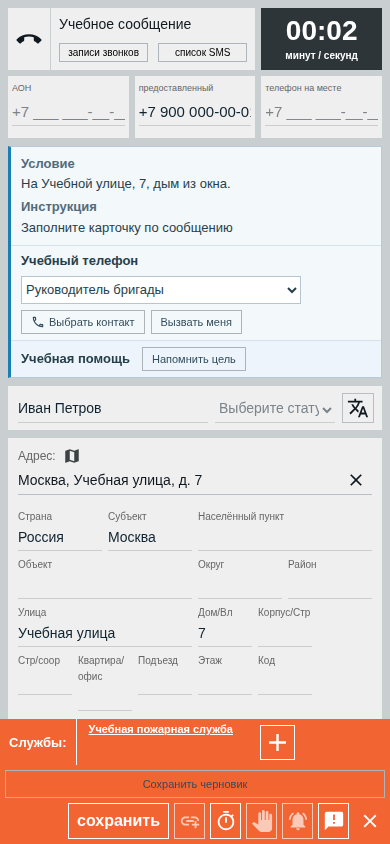
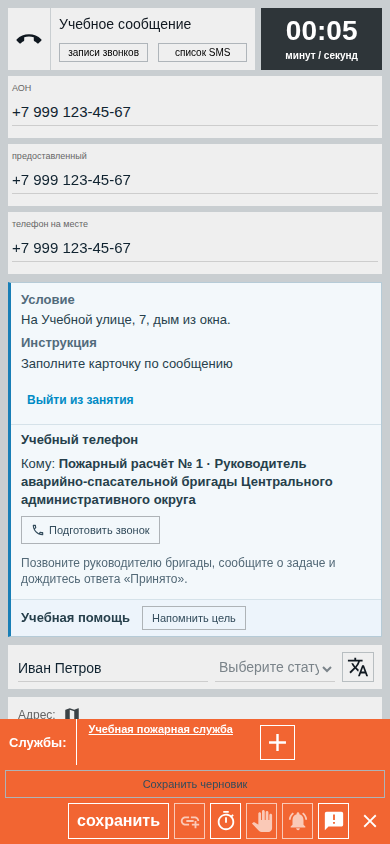
fix(telephony): keep call action beside the named crew contact

Changed region(s): [[0.0, 0.0924, 0.9846, 0.8626], [0.8615, 0.0308, 0.9231, 0.0616], [0.8923, 0.5545, 0.9231, 0.5853]]

diff --git a/112-frontend/e2e/training-panel.spec.ts b/112-frontend/e2e/training-panel.spec.ts
@@ -193,7 +193,7 @@ test("training panel groups the task and controls without nested incident scroll
     .getByRole("option", { name: "Дежурный диспетчер", exact: true })
     .click();
   await panel
-    .getByRole("button", { name: "Выбрать контакт", exact: true })
+    .getByRole("button", { name: "Подготовить звонок", exact: true })
     .click();
   await expect(panel).toContainText("Наберите 9000");
   expect(command).toMatchObject({
@@ -203,7 +203,7 @@ test("training panel groups the task and controls without nested incident scroll
   });
   await panel.getByRole("button", { name: "Завершить звонок" }).click();
   await expect(
-    panel.getByRole("button", { name: "Выбрать контакт", exact: true }),
+    panel.getByRole("button", { name: "Подготовить звонок", exact: true }),
   ).toBeVisible();
   const last = page.getByRole("button", {
     name: "Признак происшествия 12: Да",
@@ -216,6 +216,35 @@ test("training panel groups the task and controls without nested incident scroll
     path: `docs/screenshots/training-panel/${browserName}-features.png`,
     animations: "disabled",
   });
+  state.cues = [
+    { ...state.cues[0], crew_code: "fire-1", crew_name: "Пожарный расчёт № 1" },
+  ];
+  state.crew_calls_required = true;
+  const contact = panel.locator(".training-telephone__contact-name");
+  await expect(contact).toContainText("Кому: Пожарный расчёт № 1");
+  await panel.scrollIntoViewIfNeeded();
+  const prepare = panel.getByRole("button", {
+    name: "Подготовить звонок",
+    exact: true,
+  });
+  const contactBox = (await contact.boundingBox())!;
+  const buttonBox = (await prepare.boundingBox())!;
+  expect(buttonBox.x - contactBox.x - contactBox.width).toBeGreaterThanOrEqual(
+    0,
+  );
+  expect(buttonBox.x - contactBox.x - contactBox.width).toBeLessThanOrEqual(10);
+  await expect(prepare).toHaveAttribute("title", /Пожарный расчёт № 1/);
+  await page.screenshot({
+    path: `docs/screenshots/training-panel/${browserName}-single-contact.png`,
+    animations: "disabled",
+  });
+  await prepare.click();
+  expect(command).toMatchObject({
+    cue_id: "cue",
+    crew_code: "fire-1",
+    transport: "manual",
+  });
+  await page.getByRole("button", { name: "Завершить звонок" }).click();
   await page.setViewportSize({ width: 390, height: 844 });
   await panel.scrollIntoViewIfNeeded();
   await checkPhoneWidths();

diff --git a/112-frontend/src/features/telephone/ui/TelephoneContacts.tsx b/112-frontend/src/features/telephone/ui/TelephoneContacts.tsx
@@ -40,11 +40,14 @@ export function TelephoneContacts({
           ))}
         </Select>
       ) : (
-        <span>{name(cue)}</span>
+        <span className="training-telephone__contact-name">
+          Кому: <strong>{name(cue)}</strong>
+        </span>
       )}
       {cue.status !== "ready" && <small>{audioStatusLabels[cue.status]}</small>}
       <button
         className="arm-small-button"
+        title={`${mode === "browser" ? "Позвонить" : "Подготовить звонок"}: ${name(cue)}`}
         disabled={
           !ready || busy || (mode !== "external" && cue.status !== "ready")
         }
@@ -58,7 +61,7 @@ export function TelephoneContacts({
         }
       >
         <CallOutlined aria-hidden="true" />
-        {mode === "browser" ? "Позвонить" : "Выбрать контакт"}
+        {mode === "browser" ? "Позвонить" : "Подготовить звонок"}
       </button>
       {mode !== "external" && !crewCallsRequired && (
         <button

diff --git a/112-frontend/src/features/telephone/styles/telephone.scss b/112-frontend/src/features/telephone/styles/telephone.scss
@@ -76,9 +76,10 @@
         border: 0;
       }
     }
-    > span {
-      flex: 1 1 200px;
+    .training-telephone__contact-name {
+      flex: 0 1 auto;
       min-width: 0;
+      max-width: 420px;
     }
     button {
       display: inline-flex;
